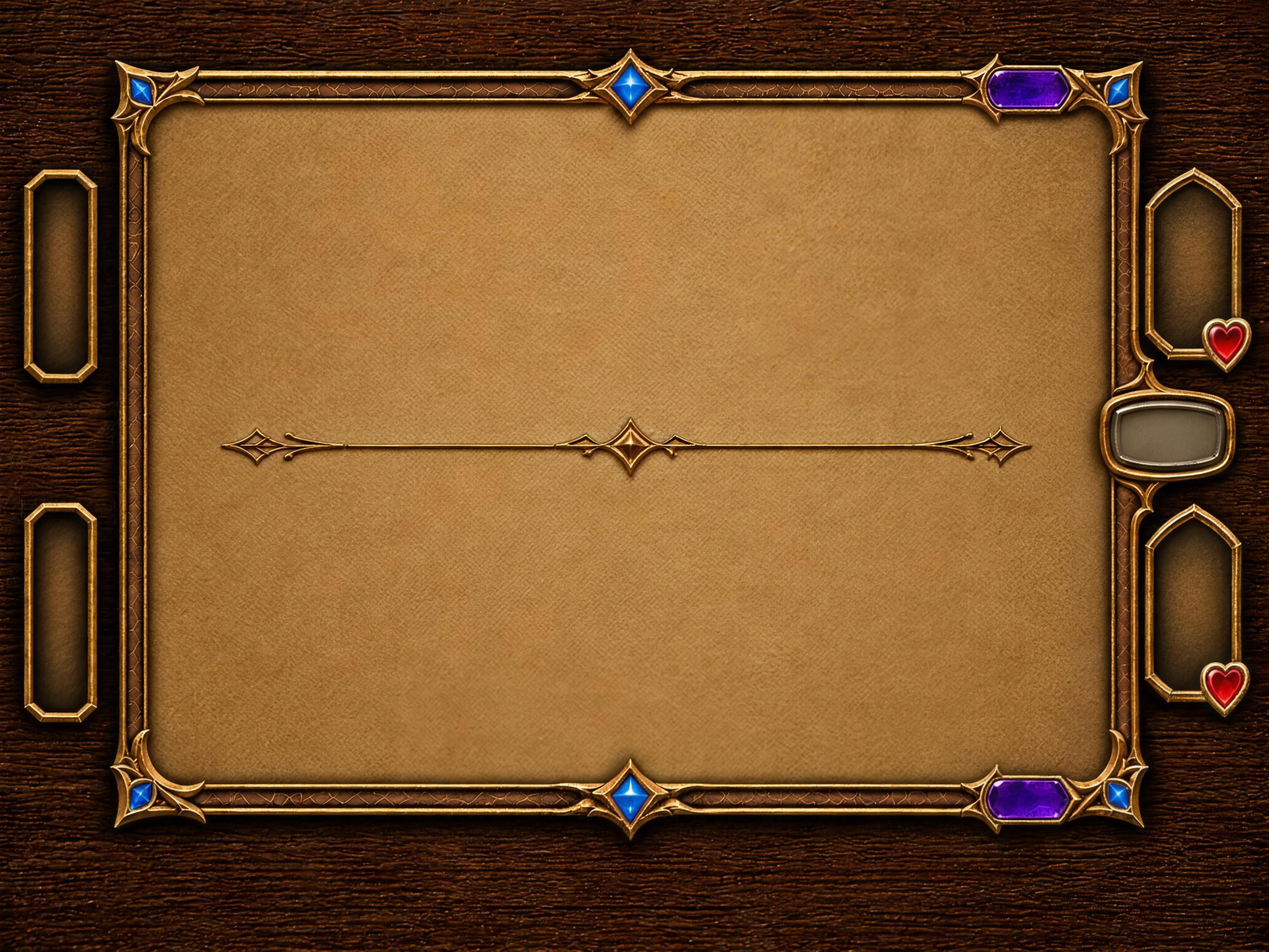
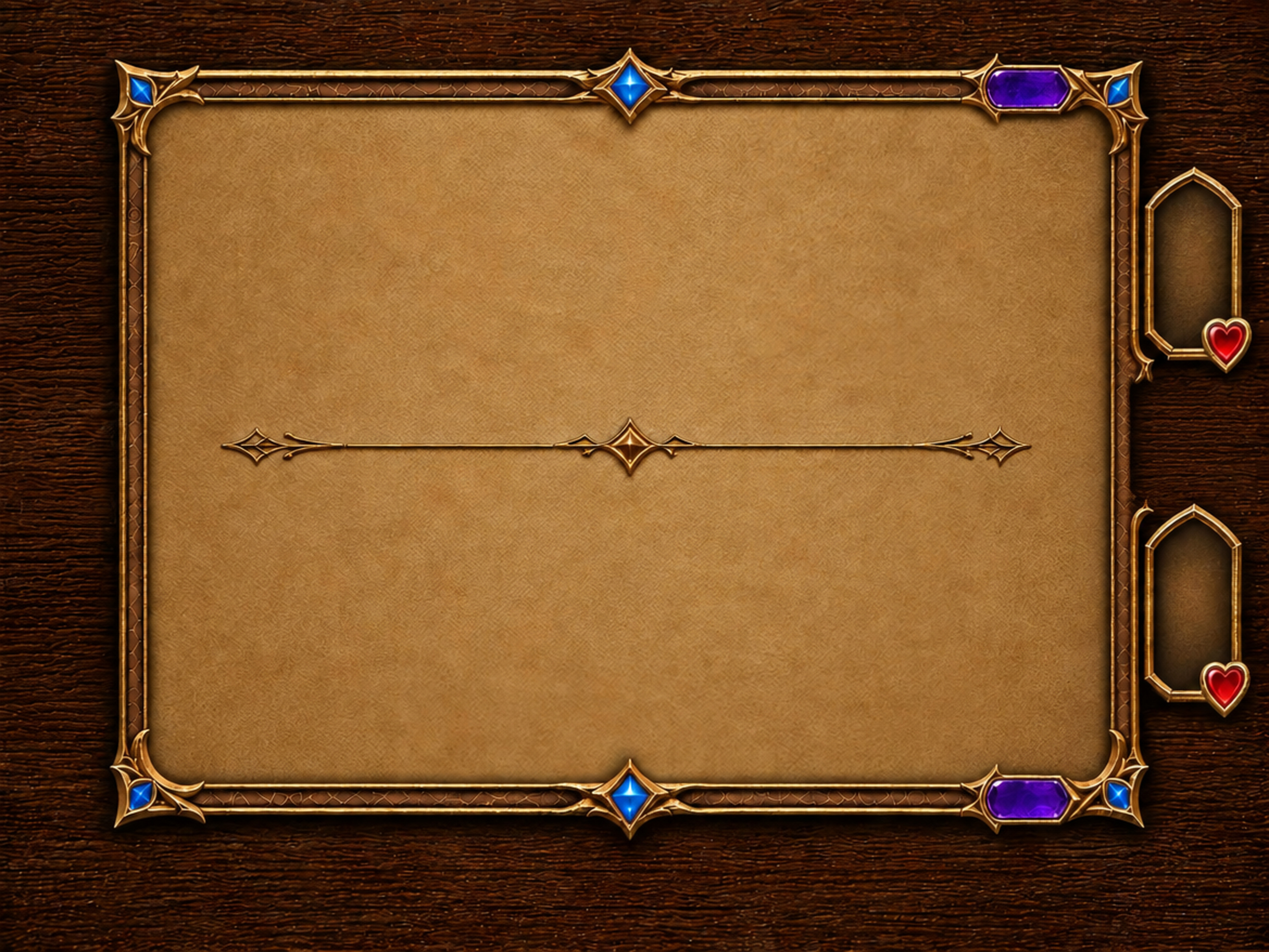
Apply board concept 1; seat soul/HP on board gems (v0.216).

diff --git a/fantasy_arena/css/game.css b/fantasy_arena/css/game.css
@@ -3884,3 +3884,156 @@ html.is-desktop #game.active .my-hand .card.playable,
   color: #eaffea;
   text-shadow: 0 1px 2px #041808, 0 0 8px rgba(0, 60, 30, 0.8);
 }
+
+
+/* v0.216 board HUD gems — soul/HP seated on baked board art; no rectangular hero chrome */
+#game.active .col-main > .corner-soul {
+  display: flex !important;
+  align-items: center !important;
+  justify-content: center !important;
+  position: absolute !important;
+  z-index: 7 !important;
+  margin: 0 !important;
+  padding: 0 !important;
+  min-width: 0 !important;
+  border: none !important;
+  border-radius: 0 !important;
+  background: transparent !important;
+  background-image: none !important;
+  box-shadow: none !important;
+  color: #fff8e8 !important;
+  font-weight: 900 !important;
+  font-size: clamp(11px, 1.35cqh, 18px) !important;
+  line-height: 1 !important;
+  text-align: center !important;
+  white-space: nowrap !important;
+  pointer-events: none !important;
+  text-shadow:
+    0 0 2px #000,
+    0 1px 2px #000,
+    0 0 6px rgba(0, 0, 0, 0.95),
+    1px 1px 0 #1a0a18,
+    -1px -1px 0 #1a0a18,
+    1px -1px 0 #1a0a18,
+    -1px 1px 0 #1a0a18 !important;
+}
+
+/* Full-bleed HUD overlay so heroes can sit on board arches */
+#game.active .col-hud {
+  position: absolute !important;
+  inset: 0 !important;
+  width: auto !important;
+  max-width: none !important;
+  z-index: 6 !important;
+  display: block !important;
+  padding: 0 !important;
+  margin: 0 !important;
+  pointer-events: none !important;
+  background: transparent !important;
+  justify-content: unset !important;
+  align-items: unset !important;
+  flex-direction: unset !important;
+}
+#game.active .col-hud .hero-strip,
+#game.active .col-hud .side {
+  display: contents !important;
+  margin: 0 !important;
+  padding: 0 !important;
+}
+#game.active .col-hud .hud-hero {
+  position: absolute !important;
+  z-index: 6 !important;
+  margin: 0 !important;
+  padding: 0 !important;
+  pointer-events: auto !important;
+  display: block !important;
+}
+#game.active .col-hud .give-btn {
+  position: absolute !important;
+  z-index: 7 !important;
+  pointer-events: auto !important;
+  margin: 0 !important;
+  box-sizing: border-box !important;
+  font-size: clamp(10px, 1.1cqh, 13px) !important;
+  padding: 4px 6px !important;
+  min-width: 0 !important;
+}
+
+/* Strip rectangular gold/dark box — portrait sits in board arch well only */
+#game.active .hud-hero .hero-slot,
+#game.active .hud-hero .hero-portrait {
+  width: 100% !important;
+  height: 100% !important;
+  min-width: 0 !important;
+  max-width: none !important;
+  margin: 0 !important;
+  padding: 0 !important;
+  border: none !important;
+  border-radius: 0 !important;
+  box-shadow: none !important;
+  background: transparent !important;
+  background-image: none !important;
+  overflow: visible !important;
+  position: relative !important;
+  cursor: pointer !important;
+}
+#game.active .hud-hero .hero-slot img,
+#game.active .hud-hero .hero-portrait img {
+  width: 100% !important;
+  height: 100% !important;
+  object-fit: contain !important;
+  object-position: center center !important;
+  display: block !important;
+  background: transparent !important;
+  border: none !important;
+  border-radius: 42% 42% 38% 38% / 36% 36% 48% 48% !important;
+  pointer-events: none !important;
+}
+
+/* HP number centered in ruby heart gem — no red pill chrome */
+#game.active .hud-hero .hero-hp {
+  position: absolute !important;
+  z-index: 8 !important;
+  display: flex !important;
+  align-items: center !important;
+  justify-content: center !important;
+  margin: 0 !important;
+  padding: 0 !important;
+  min-width: 0 !important;
+  border: none !important;
+  border-radius: 0 !important;
+  background: transparent !important;
+  background-image: none !important;
+  box-shadow: none !important;
+  color: #fff8e8 !important;
+  font-weight: 900 !important;
+  font-size: clamp(12px, 1.55cqh, 20px) !important;
+  line-height: 1 !important;
+  text-align: center !important;
+  pointer-events: none !important;
+  text-shadow:
+    0 0 2px #000,
+    0 1px 2px #000,
+    0 0 8px rgba(0, 0, 0, 1),
+    1px 1px 0 #2a0608,
+    -1px -1px 0 #2a0608,
+    1px -1px 0 #2a0608,
+    -1px 1px 0 #2a0608,
+    0 2px 3px #000 !important;
+}
+
+/* Hide duplicate soul on hero — resource lives on #oppSoulGem / #mySoulGem */
+#game.active .hud-hero .hero-soul,
+#game.active .hero-soul {
+  display: none !important;
+}
+
+/* Opp strip no longer needs margin push — geometry owned by layoutHudGems() */
+#game.active #oppStrip {
+  margin-top: 0 !important;
+  padding-top: 0 !important;
+}
+#game.active #myStrip {
+  margin-top: 0 !important;
+  padding-bottom: 0 !important;
+}

diff --git a/fantasy_arena/js/render.js b/fantasy_arena/js/render.js
@@ -139,7 +139,8 @@ function render() {
   layoutBoardAlign();
   layoutBoardDecks();
   layoutEndBtn();
-  requestAnimationFrame(() => { layoutBoardSlots(); layoutBoardAlign(); layoutBoardDecks(); layoutEndBtn(); });
+  layoutHudGems();
+  requestAnimationFrame(() => { layoutBoardSlots(); layoutBoardAlign(); layoutBoardDecks(); layoutEndBtn(); layoutHudGems(); });
 
   const oppDeckEl = document.getElementById("oppDeck");
   const myDeckEl = document.getElementById("myDeck");
@@ -816,6 +817,84 @@ function heroStrip(p, isMe, myTurn) {
     </div>`;
 }
 
+/** Seat soul gems, hero portraits, and HP on board-art wells (object-fit:contain content box). */
+function layoutHudGems() {
+  const bg = document.getElementById("boardBgLayer");
+  const main = document.querySelector("#game.active .col-main");
+  const hud = document.querySelector("#game.active .col-hud");
+  if (!bg || !main || !bg.naturalWidth) return;
+  const br = bg.getBoundingClientRect();
+  const mr = main.getBoundingClientRect();
+  if (br.width < 8 || br.height < 8 || mr.width < 8 || mr.height < 8) return;
+  const nw = bg.naturalWidth, nh = bg.naturalHeight;
+  const scale = Math.min(br.width / nw, br.height / nh);
+  const contentW = nw * scale;
+  const contentH = nh * scale;
+  const contentLeft = br.left + (br.width - contentW) / 2;
+  const contentTop = br.top + (br.height - contentH) / 2;
+
+  function placeIn(el, parentRect, CX, CY, bw, bh) {
+    if (!el || !parentRect) return;
+    const left = contentLeft + contentW * CX - bw / 2 - parentRect.left;
+    const top = contentTop + contentH * CY - bh / 2 - parentRect.top;
+    el.style.left = left + "px";
+    el.style.top = top + "px";
+    el.style.width = bw + "px";
+    el.style.height = bh + "px";
+    el.style.right = "auto";
+    el.style.bottom = "auto";
+    el.style.transform = "none";
+  }
+
+  // 4000×3000 board — purple pill gems on right frame rail; hearts at arch BR; arches on right
+  const SOUL_W = contentW * 0.055;
+  const SOUL_H = Math.max(18, SOUL_W * 0.42);
+  placeIn(document.getElementById("oppSoulGem"), mr, 0.809, 0.092, SOUL_W, SOUL_H);
+  placeIn(document.getElementById("mySoulGem"), mr, 0.809, 0.839, SOUL_W, SOUL_H);
+
+  const hr = hud ? hud.getBoundingClientRect() : null;
+  if (hr && hr.width >= 8 && hr.height >= 8) {
+    const HERO_W = contentW * 0.070;
+    const HERO_H = HERO_W * 1.28;
+    const oppHero = document.querySelector("#oppStrip .hud-hero");
+    const myHero = document.querySelector("#myStrip .hud-hero");
+    placeIn(oppHero, hr, 0.910, 0.300, HERO_W, HERO_H);
+    placeIn(myHero, hr, 0.910, 0.660, HERO_W, HERO_H);
+
+    // HP hearts — place relative to hero-slot after heroes are seated
+    const HP_W = contentW * 0.032;
+    const HP_H = HP_W;
+    const hearts = [
+      { sel: "#oppStrip .hero-hp", CX: 0.966, CY: 0.361 },
+      { sel: "#myStrip .hero-hp", CX: 0.965, CY: 0.721 }
+    ];
+    hearts.forEach(({ sel, CX, CY }) => {
+      const hp = document.querySelector(sel);
+      if (!hp) return;
+      const slot = hp.closest(".hero-slot") || hp.parentElement;
+      if (!slot) return;
+      const sr = slot.getBoundingClientRect();
+      if (sr.width < 4 || sr.height < 4) return;
+      const vx = contentLeft + contentW * CX - HP_W / 2;
+      const vy = contentTop + contentH * CY - HP_H / 2;
+      hp.style.left = (vx - sr.left) + "px";
+      hp.style.top = (vy - sr.top) + "px";
+      hp.style.width = HP_W + "px";
+      hp.style.height = HP_H + "px";
+      hp.style.right = "auto";
+      hp.style.bottom = "auto";
+      hp.style.transform = "none";
+    });
+
+    const give = document.getElementById("giveBtn");
+    if (give) {
+      const gw = Math.max(72, contentW * 0.055);
+      const gh = Math.max(28, contentH * 0.028);
+      placeIn(give, hr, 0.955, 0.955, gw, gh);
+    }
+  }
+}
+
 /** Board mid-right end-turn button (single #endBtn in .col-main). */
 
 /** Seat #endBtn on board-art mid-right well (object-fit:contain content box). */
@@ -891,7 +970,7 @@ function updateEndBtn(myTurn) {
   let t = 0;
   const kick = () => {
     clearTimeout(t);
-    t = setTimeout(() => { try { layoutHandFan(); layoutOppFan(); layoutBoardDecks(); layoutEndBtn(); } catch (e) {} }, 50);
+    t = setTimeout(() => { try { layoutHandFan(); layoutOppFan(); layoutBoardDecks(); layoutEndBtn(); layoutHudGems(); } catch (e) {} }, 50);
   };
   window.addEventListener("resize", kick);
   window.addEventListener("orientationchange", kick);

diff --git a/fantasy_arena/index.html b/fantasy_arena/index.html
@@ -7,7 +7,7 @@
 <link rel="preconnect" href="https://fonts.googleapis.com" />
 <link rel="preconnect" href="https://fonts.gstatic.com" crossorigin />
 <link href="https://fonts.googleapis.com/css2?family=DM+Sans:ital,opsz,wght@0,9..40,400;0,9..40,500;0,9..40,600;0,9..40,700;1,9..40,400&display=swap" rel="stylesheet" />
-<link rel="stylesheet" href="css/game.css?v=0.215" />
+<link rel="stylesheet" href="css/game.css?v=0.216" />
 </head>
 <body>
 <button class="bgm-btn" id="bgmBtn" title="모험 BGM">♪</button>
@@ -230,9 +230,9 @@
 <script src="js/bgm.js?v=0.102"></script>
 <script src="js/sfx.js?v=0.102"></script>
 <script src="js/settings.js?v=0.196"></script>
-<script src="js/render.js?v=0.215"></script>
+<script src="js/render.js?v=0.216"></script>
 <script src="js/combat.js?v=0.188"></script>
 <script src="js/spell-fx.js?v=0.102"></script>
-<script src="js/game.js?v=0.215"></script>
+<script src="js/game.js?v=0.216"></script>
 </body>
 </html>

diff --git a/fantasy_arena/js/game.js b/fantasy_arena/js/game.js
@@ -1,4 +1,4 @@
-const GAME_VERSION = "0.215";
+const GAME_VERSION = "0.216";
 window.GAME_VERSION = GAME_VERSION;
 
 function uid() { return Math.random().toString(36).slice(2, 9); }
